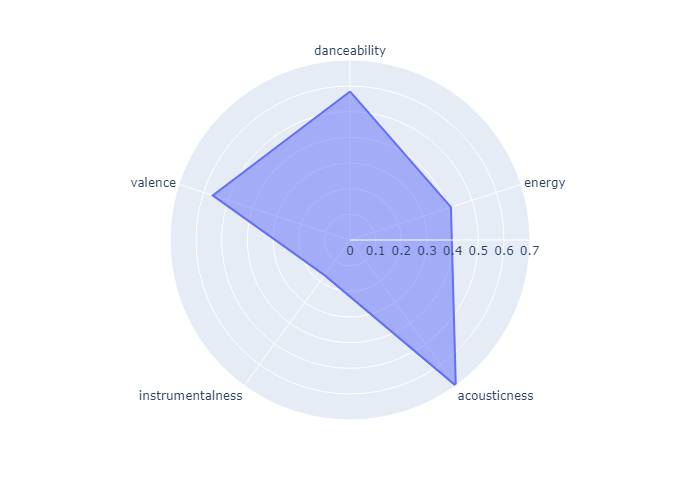
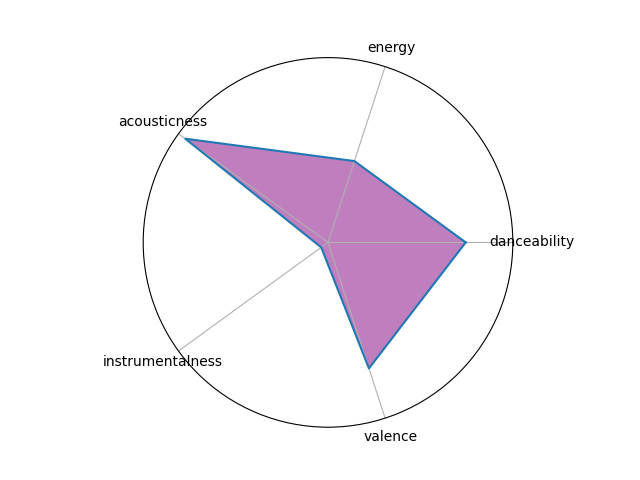
converting to matplotlib from plotly

diff --git a/GetPlaylistRadarPlot.py b/GetPlaylistRadarPlot.py
@@ -3,12 +3,14 @@ import pathlib
 import yaml
 import requests
 import pandas as pd
-import plotly.express as px
+from math import pi
+import matplotlib.pyplot as plt
 
 # Get Playlist Item Ids
 AUTH_URL = 'https://accounts.spotify.com/api/token'
 CLIENT_ID = os.getenv("SPOTIFY_CLIENT_ID") 
 CLIENT_SECRET = os.getenv("SPOTIFY_CLIENT_SECRET") 
+
 BASE_URL = 'https://api.spotify.com/v1/'
 
 with open(pathlib.Path(__file__).parent / 'docs/_data/playlists.yml') as file: # per https://github.com/Azure/azure-functions-python-worker/issues/340#issuecomment-627443490
@@ -38,7 +40,6 @@ playlistParams = {
     'fields': 'items(track(id))'
 }
 for playlist in PLAYLIST_IDS:
-
     r = requests.get(BASE_URL + 'playlists/'+ playlist['playlistID'] + '/tracks', headers = headers, params=playlistParams).json()
     track_ids = [x['track']['id'] for x in r['items']]
 
@@ -58,7 +59,20 @@ for playlist in PLAYLIST_IDS:
     df_mean.reset_index(inplace=True)
     df_mean = df_mean.rename(columns = {0:'Value'})
 
-    #Save radar visual of playlist characteristics
-    fig = px.line_polar(df_mean, r='Value',theta='Characteristic', line_close=True)
-    fig.update_traces(fill='toself')
-    fig.write_image("./docs/assets/radarCharts/"+playlist['month']+'-radar.png')
+    #Create variables for plotting
+    Attributes = df_mean['Characteristic']
+    AttNo = len(df_mean['Characteristic'])
+    values = list(df_mean['Value'])
+    values += values[:1] #Close loop by adding first characteristic value again
+
+    angles = [n / float(AttNo) * 2 * pi for n in range(AttNo)]
+    angles += angles [:1]
+
+    #Plot and save radar chart
+    ax = plt.subplot(111, polar=True)
+    plt.xticks(angles[:-1],Attributes)
+    ax.plot(angles,values)
+    ax.fill(angles, values, 'purple', alpha=0.5)
+    ax.set_yticks([])
+    plt.savefig("./docs/assets/radarCharts/"+playlist['month']+playlist['year']+'-radar.png')
+    ax.clear()
